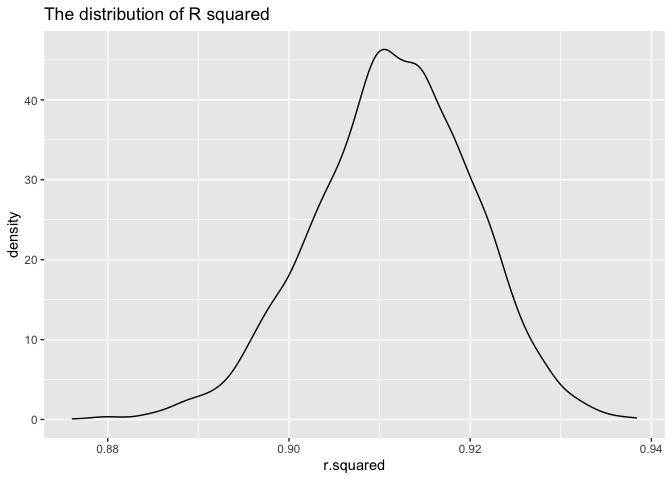
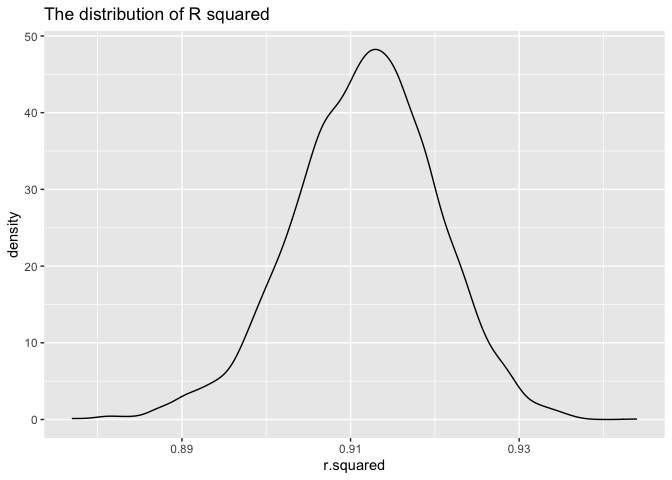
final

diff --git a/HW6.md b/HW6.md
@@ -145,7 +145,7 @@ at birth. We also want to see the parental effect like father and
 mother’s races and mother’s height on baby’s weight.
 
 ``` r
-fit <- lm(bwt ~ babysex + bhead + blength + mheight + gaweeks + mrace + frace, data = birthweight_df)
+fit = lm(bwt ~ babysex + bhead + blength + mheight + gaweeks + mrace + frace, data = birthweight_df)
 
 fit %>% broom::tidy()
 ```
@@ -183,7 +183,7 @@ that are not optimal, the overall model still looks good.
     predictors (main effects only)
 
 ``` r
-model_1 <- lm(bwt ~ blength + gaweeks, data = birthweight_df)
+model_1 = lm(bwt ~ blength + gaweeks, data = birthweight_df)
 
 model_1 %>% broom::tidy()
 ```
@@ -201,7 +201,7 @@ birth and gestational age are main effects, we also include gestational
 age in our model.)
 
 ``` r
-model_2 <- lm(bwt ~ bhead + blength + babysex + bhead*blength + blength*babysex + bhead*babysex + bhead*blength*babysex, data= birthweight_df)
+model_2 = lm(bwt ~ bhead + blength + babysex + bhead*blength + blength*babysex + bhead*babysex + bhead*blength*babysex, data= birthweight_df)
 
 model_2 %>% broom::tidy()
 ```
@@ -325,7 +325,7 @@ boot_strap =
 CI = quantile(pull(boot_strap,r.squared), probs = c(0.025, 0.975))  
 ```
 
-The mean is 0.91149, the CI is 0.8939303 0.9267355
+The mean is 0.911679, the CI is 0.8939303 0.9267355
 
 R^2 graph
 
@@ -354,7 +354,7 @@ log_df = weather_df %>%
   unnest(results)
 
 
-log = log_df %>%
+log_new = log_df %>%
   select(id, term, estimate) %>%
   pivot_wider(
     names_from = "term",
@@ -363,4 +363,22 @@ log = log_df %>%
   mutate(
     log = log(`(Intercept)` *tmin)
   )
+
+CI_2 = quantile(pull(log_new,log), probs = c(0.025, 0.975))
 ```
+
+The mean value of is 2.0131647. The CI is (1.9635709, 2.0590264).
+
+``` r
+log_new %>%
+ggplot(aes(x = log)) +
+  geom_density() +
+  labs(
+    title = "Distribution Log(beta0*beta1) estimates", 
+    y = "Density",
+     x = "Log(beta0*beta1)"
+  )
+```
+
+![](HW6_files/figure-gfm/unnamed-chunk-14-1.png)<!-- --> The
+distribution of log(beta0\*beta1) is also unimdal and it is symmetric
